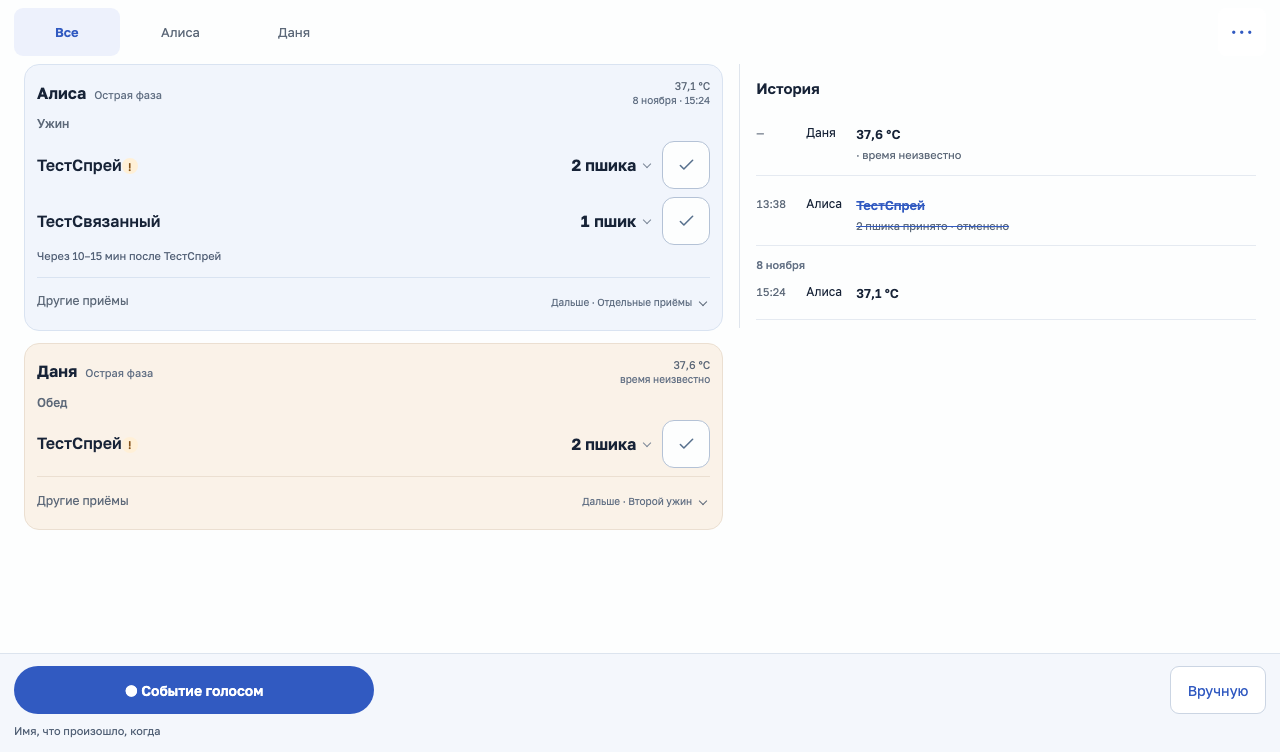
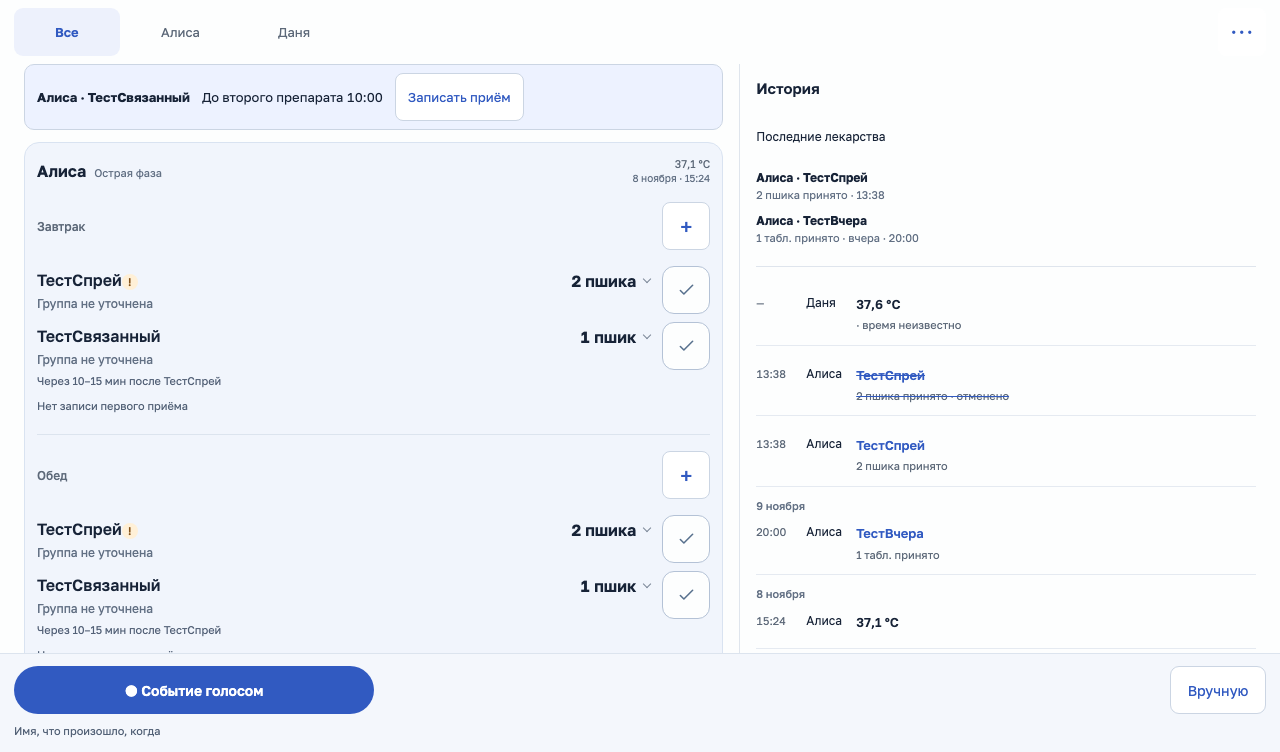
Show every current-day medication slot without automatic focus

diff --git a/site/public/family-workspace.js b/site/public/family-workspace.js
@@ -10,7 +10,7 @@ import {createVoiceQueue,MAX_VOICE_JOBS} from '/voice-queue.js';
 const root=document.querySelector('#family'),dialog=document.querySelector('#family-info'),notice=document.querySelector('#family-status');
 let snapshot,selected=localStorage.getItem('medika-family-person')||'all',actions=[],openKey='',historyDrug=false,saving=false,loading=false,token='',recording=null,voiceAt='',language=['ru','en'].includes(localStorage.getItem('medika-language'))?localStorage.getItem('medika-language'):'ru';
 let voiceQueue=null,voiceJobs=[],queueError='',captureBusy=false,replaceVoiceJob=null,voiceRefreshPending=false;
-const earlierOpen=new Set(),newId=()=> 'family-'+Array.from(crypto.getRandomValues(new Uint32Array(2)),n=>n.toString(16)).join('');
+const outsideOpen=new Set(),newId=()=> 'family-'+Array.from(crypto.getRandomValues(new Uint32Array(2)),n=>n.toString(16)).join('');
 const baseRows=()=>allRows(snapshot),rxFor=id=>snapshot.prescriptions.find(r=>r.id===id)||{},effectiveRow=row=>({...row,warnings:courseWarnings(rxFor(row.prescriptionId),snapshot.model.date)}),phaseOf=p=>p.phaseKey,visibleRow=(r,p)=>{const rx=rxFor(r.prescriptionId);return rx.confirmed&&(!rx.phase||rx.phase===phaseOf(p))&&rx.startDate<=snapshot.model.date&&(!rx.endDate||rx.endDate>=snapshot.model.date);};
 function message(text,undoId=''){notice.innerHTML=`<span>${e(text)}</span>${undoId?`<button type="button" data-undo="${e(undoId)}">Отменить</button>`:''}`;clearTimeout(message.timer);message.timer=setTimeout(()=>notice.textContent='',12000);}
 async function api(path,body=null,method=body?'POST':'GET'){
@@ -51,14 +51,15 @@ function renderRow(source,later=false){const row=effectiveRow(source),event=rowE
   if(row.warnings.length)html=html.replace('</summary>',`</summary><p class="sandbox-warning">${e(row.warnings.join(' · '))}</p>`);
   return `<div class="sandbox-dose${openKey===row.key?' is-selected':''}" data-demo-row="${e(row.key)}">${html}${row.dependency?`<p class="dependency-state" data-dependency-row="${e(row.key)}">${e(dependencyTimer(snapshot,actions,row)?.text||dependency)}</p>`:''}${event&&row.aftercare?`<p class="family-aftercare">После ингаляции: ${e(row.aftercare)}</p>`:''}</div>`;
 }
-function group(g,p,later=true){const rows=g.rows.filter(r=>visibleRow(r,p));if(!rows.length)return '';return `<section class="${later?'care-later':'care-current'}"><div class="family-slot-heading"><h3 class="sandbox-current-label">${e(g.label)}</h3><button type="button" data-add-medicine="${e(p.id)}" data-anchor="${e(rows[0].anchor==='clock'?'':p.daySlots?'slot:'+rows[0].anchor:rows[0].anchor)}"${rows[0].anchor==='clock'?` data-time="${e(g.time||'')}"`:''} aria-label="Добавить лекарство: ${e(p.name)}, ${e(g.label)}">+</button></div>${rows.map(r=>renderRow({...r,personId:p.id},later)).join('')}</section>`;}
+function group(g,p){const rows=g.rows.filter(r=>visibleRow(r,p));if(!rows.length)return '';return `<section class="care-current family-day-slot"><div class="family-slot-heading"><h3 class="sandbox-current-label">${e(g.label)}</h3><button type="button" data-add-medicine="${e(p.id)}" data-anchor="${e(rows[0].anchor==='clock'?'':p.daySlots?'slot:'+rows[0].anchor:rows[0].anchor)}"${rows[0].anchor==='clock'?` data-time="${e(g.time||'')}"`:''} aria-label="Добавить лекарство: ${e(p.name)}, ${e(g.label)}">+</button></div>${rows.map(r=>renderRow({...r,personId:p.id})).join('')}</section>`;}
 function peopleView(){return snapshot.model.cards;}
 function card(p){
   const own=snapshot.prescriptions.filter(r=>r.personId===p.id),phase=phaseOf(p),hasRows=[...(p.current?.rows||[]),...p.later.flatMap(g=>g.rows),...p.earlier.flatMap(g=>g.rows),...p.prn].some(r=>visibleRow(r,p));
   const outside=own.filter(r=>!r.confirmed||r.phase&&r.phase!==phase||r.startDate>snapshot.model.date||r.endDate&&r.endDate<snapshot.model.date);
-  const extra=p.later.map(g=>`<div data-slot-period="later">${group(g,p)}</div>`).join('')+p.earlier.map(g=>`<div data-slot-period="earlier">${group(g,p)}</div>`).join('');
-  const extraContent=extra+(outside.length?`<section class="family-outside"><h3>Другие назначения</h3>${outside.map(r=>`<button class="sandbox-outside" type="button" data-edit="${e(r.id)}">${e(r.name)}<small>${e(!r.confirmed?'Не подтверждено':r.phase&&r.phase!==phase?(r.phase==='acute'?'Для острой фазы':'Для поддерживающей фазы'):courseWarnings(r,snapshot.model.date).join(' · ')||'Курс завершён')}</small></button>`).join('')}</section>`:'');
-  const plan=(p.current?group(p.current,p,false):hasRows?'':`<p class="family-empty">${own.length&&phase==='prevention'?'Поддерживающая схема ещё не добавлена':'Нет действующих плановых назначений'}</p>`)+(extraContent?`<details class="care-earlier family-other-slots" data-earlier="${e(p.id)}"${earlierOpen.has(p.id)?' open':''}><summary><span>Другие приёмы</span>${p.later[0]?`<small>Дальше · ${e(p.later[0].label)}</small>`:''}</summary>${extraContent}</details>`:'');
+  const slotOrder=p.daySlots?profileSlots(p).map(s=>s.id):Object.keys(anchors),rank=g=>{const anchor=g.rows[0]?.anchor,index=slotOrder.indexOf(anchor);return index>=0?index:slotOrder.length+(anchor==='clock'?1:2);};
+  // Meals keep their daily order even when their clock times are unknown. Exact times remain explicit.
+  const groups=[...p.earlier,...(p.current?[p.current]:[]),...p.later].sort((a,b)=>rank(a)-rank(b)||(a.time||'').localeCompare(b.time||''));
+  const plan=groups.map(g=>group(g,p)).join('')+(groups.length||hasRows?'':`<p class="family-empty">${own.length&&phase==='prevention'?'Поддерживающая схема ещё не добавлена':'Нет действующих плановых назначений'}</p>`)+(outside.length?`<details class="care-earlier family-outside-plans" data-outside-plans="${e(p.id)}"${outsideOpen.has(p.id)?' open':''}><summary>Другие назначения</summary><section class="family-outside">${outside.map(r=>`<button class="sandbox-outside" type="button" data-edit="${e(r.id)}">${e(r.name)}<small>${e(!r.confirmed?'Не подтверждено':r.phase&&r.phase!==phase?(r.phase==='acute'?'Для острой фазы':'Для поддерживающей фазы'):courseWarnings(r,snapshot.model.date).join(' · ')||'Курс завершён')}</small></button>`).join('')}</section></details>`:'');
   const temperature=activeEvents(snapshot,actions).filter(r=>r.personId===p.id&&r.kind==='temperature').sort((a,b)=>(b.date||'').localeCompare(a.date||'')||Date.parse(b.occurredAt||b.input?.createdAt||0)-Date.parse(a.occurredAt||a.input?.createdAt||0))[0];
   return `<section class="care-person color-${p.color}" data-person="${e(p.id)}"><header class="care-person-head"><div class="family-person-identity"><h2>${e(p.name)}</h2>${phase||own.length?`<span class="family-phase-status" data-phase-status="${e(phase)}">${e(phase==='acute'?'Острая фаза':phase==='prevention'?'Поддерживающая':'Фаза не задана')}</span>`:''}</div>${temperature?`<span class="care-phase">${e(temperature.name)}<small>${e(measurementStamp(temperature,snapshot.model.date,snapshot.timeZone))}</small></span>`:''}</header>${plan}${p.prn.filter(r=>visibleRow(r,p)).length?`<section class="care-later"><h3>По необходимости</h3>${p.prn.filter(r=>visibleRow(r,p)).map(r=>renderRow({...r,personId:p.id},true)).join('')}</section>`:''}${!p.current&&!p.later.length&&!p.earlier.length?`<button type="button" class="family-add-medicine" data-add-medicine="${e(p.id)}">Добавить лекарство</button>`:''}${!hasRows?`<button type="button" class="sandbox-empty-event" data-add-event="${e(p.id)}">Записать событие</button>`:''}</section>`;
 }
@@ -157,7 +158,7 @@ async function saveSlotMedicine(form){
 }
 
 function showPrescription(id,personId,slotIndex=null){
-  if(!snapshot)return;if(selected!=='all'){selected=personId;localStorage.setItem('medika-family-person',selected);}earlierOpen.add(personId);render();const row=baseRows().find(r=>r.prescriptionId===id&&(slotIndex===null||r.slotIndex===slotIndex)),node=[...root.querySelectorAll('[data-demo-row]')].find(n=>n.dataset.demoRow===row?.key)||[...root.querySelectorAll('[data-edit]')].find(n=>n.dataset.edit===id);node?.scrollIntoView({block:'nearest'});
+  if(!snapshot)return;if(selected!=='all'){selected=personId;localStorage.setItem('medika-family-person',selected);}outsideOpen.add(personId);render();const row=baseRows().find(r=>r.prescriptionId===id&&(slotIndex===null||r.slotIndex===slotIndex)),node=[...root.querySelectorAll('[data-demo-row]')].find(n=>n.dataset.demoRow===row?.key)||[...root.querySelectorAll('[data-edit]')].find(n=>n.dataset.edit===id);node?.scrollIntoView({block:'nearest'});
 }
 
 let timerAudio;
@@ -204,7 +205,7 @@ async function voice(){if(saving||captureBusy)return;if(recording){const current
   captureBusy=true;updateVoiceStatus();try{recording=await captureVoice(()=>voice());voiceAt=new Date().toISOString();recording.replaceSequence=replacement;}catch(error){message(error.name==='NotAllowedError'?'Разрешите доступ к микрофону в браузере':'Не удалось включить микрофон');}finally{captureBusy=false;render();}}
 async function initVoiceQueue(){try{voiceQueue=await createVoiceQueue({api,onChange(jobs,error){if(error){queueError=error.message;message('Очередь остановлена. '+error.message);}else{const changed=JSON.stringify(voiceJobs.map(j=>[j.sequence,j.state,j.error]))!==JSON.stringify(jobs.map(j=>[j.sequence,j.state,j.error]));voiceJobs=jobs;queueError='';if(changed&&dialog.open&&dialog.querySelector('.family-voice-jobs'))voiceQueueDialog();}updateVoiceStatus();},async onSaved(){voiceRefreshPending=true;await load();}});await voiceQueue.sync();}catch(error){queueError='Не удалось открыть локальную очередь. '+error.message;updateVoiceStatus();}}
 root.addEventListener('change',event=>{if(saving||loading||recording)return;if(event.target.name==='care-person'){selected=event.target.value;root.querySelector('main').scrollTop=0;localStorage.setItem('medika-family-person',selected);openKey='';historyDrug=false;render(true);}else if(event.target.matches('[data-take]')){const row=baseRows().find(r=>r.key===event.target.dataset.take);if(!row)return;const old=rowEvent(snapshot,actions,row);if(event.target.checked)record(row);else if(old)cancel(old.id);}});
-root.addEventListener('toggle',event=>{if(event.target.hasAttribute('data-earlier')){if(event.target.open)earlierOpen.add(event.target.dataset.earlier);else earlierOpen.delete(event.target.dataset.earlier);return;}if(!event.target.parentElement?.classList.contains('care-med'))return;const key=event.target.closest('[data-demo-row]')?.dataset.demoRow;if(event.target.open){openKey=key;root.querySelectorAll('.care-med>details[open]').forEach(n=>{if(n!==event.target)n.open=false;});}else if(openKey===key){openKey='';historyDrug=false;}else return;root.querySelectorAll('[data-demo-row]').forEach(n=>n.classList.toggle('is-selected',n.dataset.demoRow===openKey));root.querySelector('.sandbox-history').innerHTML=historyHTML();},true);
+root.addEventListener('toggle',event=>{if(event.target.hasAttribute('data-outside-plans')){if(event.target.open)outsideOpen.add(event.target.dataset.outsidePlans);else outsideOpen.delete(event.target.dataset.outsidePlans);return;}if(!event.target.parentElement?.classList.contains('care-med'))return;const key=event.target.closest('[data-demo-row]')?.dataset.demoRow;if(event.target.open){openKey=key;root.querySelectorAll('.care-med>details[open]').forEach(n=>{if(n!==event.target)n.open=false;});}else if(openKey===key){openKey='';historyDrug=false;}else return;root.querySelectorAll('[data-demo-row]').forEach(n=>n.classList.toggle('is-selected',n.dataset.demoRow===openKey));root.querySelector('.sandbox-history').innerHTML=historyHTML();},true);
 root.addEventListener('click',event=>{const target=event.target.closest('button');if(!target||saving)return;if(target.hasAttribute('data-voice')){voice();return;}if(recording)return;
   if(target.hasAttribute('data-voice-queue'))voiceQueueDialog();if(target.hasAttribute('data-tools'))tools();if(target.hasAttribute('data-retry'))load();if(target.hasAttribute('data-medicine-info'))medicineInfo(target.dataset.medicineInfo);
   if(target.hasAttribute('data-record')){const row=baseRows().find(r=>r.key===target.dataset.record),old=rowEvent(snapshot,actions,row);if(old||row.eventId)eventEdit(old?.id||row.eventId);else if(row.anchor==='unassigned')slotsForm();else eventForm('',row);}

diff --git a/site/public/family-workspace.css b/site/public/family-workspace.css
@@ -30,7 +30,7 @@
 .family-thumb img,.family-thumb svg{width:100%;height:100%;object-fit:contain}
 .family-drug-label{min-width:0;overflow-wrap:anywhere}
 .family-photos a{display:flex;align-items:center;min-height:48px;margin-top:8px;font-size:12px;color:#315ac1}
-/* The overview starts closed; details must not push the next person off screen. */
+/* Medication details start closed; all planned slots remain visible. */
 .family-app .family-toolbar .care-family{padding:8px 14px}
 .family-app .sandbox-jump{padding:0 14px 8px}
 .family-app .sandbox-plan .care-people{margin-top:0;gap:12px}
@@ -40,11 +40,6 @@
 .family-app .care-person-head .care-phase{text-align:right;line-height:1.4}
 .family-app .care-person-head .care-phase small{display:block;font-size:10px;color:#627084}
 .family-app .care-current{padding-bottom:4px}
-.family-app .family-other-slots{margin-top:4px}
-.family-app .family-other-slots>summary{gap:8px;justify-content:space-between}
-.family-app .family-other-slots>summary small{font-size:10px;color:#627084;margin-left:auto;text-align:right}
-.family-app .family-other-slots [data-slot-period]+[data-slot-period]{margin-top:8px}
-.family-app .family-other-slots .care-later{margin:0;padding:8px 0}
 .family-app .family-outside h3{font-size:12px;margin:8px 0}
 .family-review-marker{display:inline-flex;align-items:center;justify-content:center;width:16px;height:16px;flex-shrink:0;border-radius:50%;background:#fff0d7;color:#86541b;font:600 11px/1 Golos,system-ui,sans-serif}
 .family-app .family-history-day>h3{font-size:11px;font-weight:500;color:#627084;margin:12px 0 0}
@@ -100,3 +95,5 @@
 .family-timers[hidden]{display:none}
 
 .family-app [hidden]{display:none!important}[data-rx-occurrences]{display:grid;gap:0}
+
+.family-app .family-day-slot+.family-day-slot{border-top:1px solid #dce4ee;margin-top:8px;padding-top:8px}

diff --git a/PROJECT.md b/PROJECT.md
@@ -22,11 +22,11 @@ OCR каждого снимка и конечный AI-результат сох
 
 Связанные препараты настраиваются в карточке лекарства → «Изменить → После применения и последовательность»: предыдущий препарат, от/до минут, отдельное напоминание после процедуры. Это пользовательская последовательность, а не дополнение к тексту врача. Для каждого человека и соответствующего слота используется его фактическая отметка первого приёма, включая раздельные утреннее и вечернее назначения. Отсчёт начинается от отметки о завершении первой ингаляции: сначала оставшееся время до начала окна, затем до его конца; истечение окна не считается пропуском или фактом приёма. Нет точного времени или первая отметка отменена — нет отсчёта. Вторая отметка убирает таймер и показывает напоминание после применения.
 
-Таймеры видны без всплывающего окна и восстанавливаются по журналу после перезагрузки. На плашке есть «Записать приём», включая истёкший интервал: форма позволяет указать фактическое время, её открытие ничего не записывает. Галочка доступна у всех плановых приёмов текущего дня, включая «Другие приёмы» после смены отображаемого слота. Истечение интервала не блокирует журнал и не является рекомендацией принять препарат. Короткий звук при начале окна возможен после взаимодействия со страницей, пока браузер её выполняет; во время записи голоса звук откладывается. Системный будильник и гарантированные уведомления при закрытом/приостановленном Safari не реализованы.
+Таймеры видны без всплывающего окна и восстанавливаются по журналу после перезагрузки. На плашке есть «Записать приём», включая истёкший интервал: форма позволяет указать фактическое время, её открытие ничего не записывает. Галочка доступна у всех плановых приёмов текущего дня, без скрытого списка остальных слотов. Истечение интервала не блокирует журнал и не является рекомендацией принять препарат. Короткий звук при начале окна возможен после взаимодействия со страницей, пока браузер её выполняет; во время записи голоса звук откладывается. Системный будильник и гарантированные уведомления при закрытом/приостановленном Safari не реализованы.
 
 Лаборатории вынесены под «Тестовые инструменты». Отдельные стенды: OCR и шесть вариантов интерфейса — `/playground` (также `/ocr-lab`), голос — `/voice-lab`. Тестовый журнал отделён от клинической базы.
 
-Рабочее приложение — **http://192.168.0.38/** (также `/family`, на Mac — http://medika.localhost). На планшете слева лекарства и раскрытое назначение, справа история; на телефоне есть короткий переход к истории. Выбор человека ограничивает обе панели. Обзор изначально свёрнут: автоматического раскрытия первого лекарства нет. Дополнительные слоты и назначения собраны в одном «Другие приёмы», дублирующая верхняя кнопка записи убрана. Основной слот выбирается по ближайшему из настроенных часов, а явная незавершённая цепочка удерживается до истечения её заданного интервала от факта; назначения и факты этим выбором не меняются. Старое измерение в шапке содержит дату, неизвестное время не подменяется часами. История разделена по фактическим дням без повторения даты в каждой строке. Нажатие строки открывает сведения о факте; форма исправления появляется только по «Исправить». Приём сейчас отмечается отдельной галочкой; из раскрытия можно записать другой фактический момент или неизвестное время с известной датой. Прошедшие и последующие слоты доступны для записи факта, без изменения плана.
+Рабочее приложение — **http://192.168.0.38/** (также `/family`, на Mac — http://medika.localhost). На планшете слева лекарства и раскрытое назначение, справа история; на телефоне есть короткий переход к истории. Выбор человека ограничивает обе панели. Обзор изначально свёрнут: автоматического раскрытия первого лекарства нет. Все плановые слоты текущего дня открыты: еда в порядке дня (личные слоты — по профилю), конкретные часы отдельными группами после еды. Единственный основной слот по часам или выполненности не выбирается; завтрак и обед не скрываются за «Другими приёмами». В «Других назначениях» остаются только будущие/завершённые курсы, неподтверждённые и другая фаза; вчерашние факты — в истории. При длинной схеме используется прокрутка. Старое измерение в шапке содержит дату, неизвестное время не подменяется часами. История разделена по фактическим дням без повторения даты в каждой строке. Нажатие строки открывает сведения о факте; форма исправления появляется только по «Исправить». Приём сейчас отмечается отдельной галочкой; из раскрытия можно записать другой фактический момент или неизвестное время с известной датой. Прошедшие и последующие слоты доступны для записи факта, без изменения плана.
 
 Факты сохраняются в общем журнале, переживают перезагрузку и перезапуск. Отмена сохраняет аудит; исправление фактической дозы/времени проверяет версию записи и не меняет Rx. Правка назначения не переписывает прошлые факты. Версия Rx проверяется при отметке, повторный тап блокируется, потерянный ответ приводит к чтению журнала без автоматического повторного POST. Общие события — температура, лекарство, симптомы, ингаляция и произвольная запись — доступны и у человека без курса. Последние лекарства включают предыдущие дни. Неизвестное время хранится как `occurredAt:null`, `timeUnknown:true`, `knownDate`; часы не выдумываются, связанный интервал и проверки ограничений не объявляются полными.
 
@@ -118,7 +118,7 @@ Playwright на этом Mac переиспользуется через `PLAYWR
 
 Перенос A1 в приложение: `site/scripts/family-workspace-canary.mjs`, отчёт `reports/family-workspace-canary.json`, синтетические снимки `reports/family-workspace-synthetic-*.png`. Проверяются рабочая запись/reload, правка Rx без изменения старой дозы, исправление/отмена факта, неизвестное время, другой человек в голосовой фразе, фазы, слоты, перезапуск, телефон/планшет и границы касаний. В этом UI-canary ASR подменён, фактический parse/record API работает на синтетической базе; качество реального голоса им не подтверждается. Общий canary проверяет сохранённые прежние инструменты по `/manage`, включая локальную ASR/OCR и восстановление. Перед переключением сохранена приватная копия `site/data/before-live-family-transfer.json`. Проверка реального главного адреса выполняется только чтением и раскрытием, без медицинских записей и скриншотов; приватный результат — `site/data/family-live-transfer-check.json`. Физический iPad не проверен.
 
-Проверка компактного обзора: `site/scripts/family-overview-canary.mjs`, отчёт `reports/family-overview-canary.json`, синтетические кадры `reports/family-overview-synthetic-*.png`. Часы теста зафиксированы на 13:38: у одного ребёнка ближайший ужин, у другого обед; старое измерение и неизвестное время подписаны явно. На 320/390/768/1024/1280px обе карточки и основные дозы помещаются в видимую область. Сохранение/reload/отмена, доступность остальных слотов и неизменность курса проверены отдельно. Проверка живого экрана без скриншотов и записей — приватный `site/data/family-overview-live-check.json`.
+Проверка расписания дня: `site/scripts/family-overview-canary.mjs`, отчёт `reports/family-overview-canary.json`, только синтетические кадры `reports/family-overview-synthetic-*.png`. В середине дня все приёмы еды и конкретные часы открыты, даже без часов еды и после отметки вечернего препарата. Прошлые факты остаются в истории, будущий курс — отдельно. Проверяются сохранение/reload/отмена, неизменность назначения, 320/390/844/768/1024/1280px, телефон/планшет в обеих ориентациях, размеры и промежутки зон, центры и края касаний; прокрутка длинного расписания допустима. Физический iPad не проверен.
 
 Прямое добавление в слоты: `site/scripts/slot-assignment-canary.mjs`, отчёт `reports/slot-assignment-canary.json`. Синтетическая временная база: пустой профиль, выбранный слот, каталог → семейный экран, несколько слотов, единый распорядок на будни и выходные, потерянный ответ, отметка приёма, неизменность прошлых фактов, restart/backup и touch-геометрия телефона/планшета.
 

diff --git a/design-study/DESIGN-RULES.md b/design-study/DESIGN-RULES.md
@@ -17,6 +17,10 @@
 - Перемещение редкой операции не удаляет её, не меняет назначение и не превращает простой просмотр в запись.
 - Статус не оформлять как управляющую кнопку: без сегментированного выбора, наведения, фокуса и обработчика изменения. Доступный способ изменения описать отдельно.
 
+## Расписание дня
+
+Не выбирать за пользователя единственный «ближайший» слот и не скрывать остальные за «Другими приёмами». Еда видна в обычном порядке (личные слоты — в порядке профиля), точные часы — отдельными группами после еды. Завтрак может фактически продолжаться до обеда: часы и выполненное вечернее назначение не вытесняют его. План дня отделён от вчерашней истории и неактивных назначений. Подробности лекарств остаются свёрнутыми. При длинной схеме допустима прокрутка; не пытаться уместить весь курс в первый экран уменьшением зон нажатия или сокрытием слотов.
+
 ## Где показываются данные и действия
 
 | Поверхность | Видимые данные | Доступные действия |
@@ -42,7 +46,7 @@
 | 4 | Связанные приёмы; при каждой цепочке | Порядок, отсчёт от факта, человек и слот | Настройка в препарате; запуск от завершённого первого приёма; запись второго с плашки |
 | 5 | Дал сейчас; часто | Лекарство, доза и отдельная галочка | Один тап; затем короткое подтверждение и отмена |
 | 6 | Внести прошлый приём; по ситуации | Доступ к другим слотам и галочкам | Для другого момента — раскрытие лекарства или плашка таймера → запись фактического времени |
-| 7 | Зафиксировать раньше плана; по ситуации | Следующий слот свёрнут | Запись факта из нужного слота, отдельно от правки плана |
+| 7 | Зафиксировать раньше плана; по ситуации | Все слоты текущего дня открыты | Запись факта из нужного слота, отдельно от правки плана |
 | 8 | Исправить ошибку; по ситуации | Недавний факт и краткая отмена после действия | Карточка события → исправление/отмена |
 | 9 | Назначение и история на планшете; каждый заход | Две связанные панели, общий фильтр человека | Раскрытие и фильтр истории без ухода на новую страницу |
 | 10 | Событие без курса; во время ухода | Человек и история, понятное пустое состояние | Общий ввод, назначение не обязательно |
@@ -90,7 +94,7 @@
 
 ## Прямое добавление в расписание (12 ноября 2026)
 
-Основной сценарий проверяется из семейного экрана, а не только через API или тестовый стенд: человек → «+» у слота (или «Добавить лекарство» в пустой карточке) → препарат → отдельная разовая доза → слот/слоты или точное время → явное сохранение. Человек и выбранный слот уже заполнены; концентрация не заполняет дозу. Добавленная строка сразу видна, даже если слот был скрыт в «Другие приёмы». В каталоге основной переход — «В расписание» с уже выбранным препаратом. Точное время выбирается в этой же форме, часы обязательны только в этом режиме. Интервалы и приём по необходимости остаются отдельными вариантами расписания.
+Основной сценарий проверяется из семейного экрана, а не только через API или тестовый стенд: человек → «+» у слота (или «Добавить лекарство» в пустой карточке) → препарат → отдельная разовая доза → слот/слоты или точное время → явное сохранение. Человек и выбранный слот уже заполнены; концентрация не заполняет дозу. Добавленная строка сразу видна в открытом слоте. В каталоге основной переход — «В расписание» с уже выбранным препаратом. Точное время выбирается в этой же форме, часы обязательны только в этом режиме. Интервалы и приём по необходимости остаются отдельными вариантами расписания.
 
 Наличие действия в скрытом универсальном редакторе не означает, что пользовательский сценарий реализован. Перед сдачей пройти его обычными кликами, включая пустого человека, несколько препаратов и несколько слотов. Рабочее действие не ведёт в playground; входы в лаборатории находятся под «Тестовые инструменты». Импорт выписки — рабочий `/prescriptions/import`, без тестовых вариантов и синтетических примеров; прежний `?mode=import` совместим.
 
@@ -102,4 +106,4 @@
 
 В свёрнутой строке лекарства под названием видна группа из проверенной справки. Это пассивная подпись без отдельной зоны действия; полная справка открывается прежней кнопкой. Для комбинации антибиотика и кортикостероида видны обе группы. Не обрезать критичные оговорки и неизвестность, не обозначать группу цветом «безопасно/опасно».
 
-Истечение интервала не убирает действия регистрации факта. «Записать приём» доступно прямо с плашки таймера; фактическое время уточняется до сохранения. Смена фокуса на другой слот не скрывает галочки у остальных плановых приёмов в «Других приёмах». Визуальное сокращение строки не должно отменять действие.
+Истечение интервала не убирает действия регистрации факта. «Записать приём» доступно прямо с плашки таймера; фактическое время уточняется до сохранения. Все плановые слоты текущего дня открыты и сохраняют галочки независимо от часов и отметок. Визуальное сокращение строки не должно отменять действие.

diff --git a/USER-FLOWS.md b/USER-FLOWS.md
@@ -43,8 +43,8 @@
 
 - **Вход:** главный экран. Фильтры «Все / Алиса / Даня / Мама / Папа».
 - **Путь:** просмотреть общий набор или выбрать человека. На планшете назначения слева, история справа; на телефоне — в одной области прокрутки с переходом к истории.
-- **Результат:** видны имя, пассивный статус фазы, слот, лекарства и дозы, отметки и последние события. Цвет помогает различать людей. Лишние заголовки «Сегодня» и дата планового дня не занимают обзор. Для еды показывается название слота, для назначения на часы — сами часы. Старое измерение подписано датой.
-- **Граница:** выбор фильтра или отображаемого слота не меняет лечение и не записывает факт. Смена фокуса не делает остальные приёмы недоступными.
+- **Результат:** видны имя, пассивный статус фазы, слот, лекарства и дозы, отметки и последние события. Цвет помогает различать людей. Завтрак и обед не скрываются из-за вечернего назначения или растянувшегося приёма. Завершённые курсы, будущие и назначения другой фазы находятся отдельно в «Других назначениях»; вчерашние факты — в истории, а не среди плановых строк дня. Лишние заголовки «Сегодня» и дата планового дня не занимают обзор. Для еды показывается название слота, для назначения на часы — сами часы. Старое измерение подписано датой.
+- **Граница:** выбор фильтра или отображаемого слота не меняет лечение и не записывает факт. Обзор не выбирает единственный слот по часам: все плановые слоты текущего дня открыты. Еда идёт в порядке завтрака, обеда, ужина, второго ужина и сна (для личных слотов — порядок профиля); точные часы показаны отдельными группами после еды. Отметки не меняют порядок. Просмотр требует только прокрутки, без раскрытия «Других приёмов».
 
 ### UF02. Назначение, группа и сведения о препарате
 
@@ -55,7 +55,7 @@
 
 ### UF03. Принято сейчас в любом плановом слоте
 
-- **Вход:** галочка у лекарства текущего дня; у другого слота сначала раскрыть «Другие приёмы».
+- **Вход:** галочка у лекарства в любом открытом слоте текущего дня.
 - **Путь:** отметить именно нужную строку.
 - **Результат:** сохраняется факт с фактическим временем; отметка переживает перезагрузку. Раскрытие инструкции и галочка — независимые действия.
 - **Граница:** галочка сохраняется у прошлых и последующих плановых слотов текущего дня. Истечение связанного интервала её не убирает. Повторное нажатие отменяет существующую отметку с сохранением истории, а не создаёт ещё одну дозу. Непривязанный приём сначала требует исправления назначения.
@@ -143,7 +143,7 @@
 
 ### UF15. Интервал истёк или фокус ушёл на другой слот
 
-- **Вход:** плашка таймера → «Записать приём»; либо галочка лекарства в «Других приёмах».
+- **Вход:** плашка таймера → «Записать приём»; либо галочка лекарства в открытом слоте текущего дня.
 - **Путь:** открыть форму нужного второго препарата, указать фактическое время, сохранить.
 - **Результат:** запись доступна и после истечения окна, и когда основным показан другой слот. После записи второй дозы таймер убирается.
 - **Граница:** истечение окна — информация, а не блокировка журнала. Открытие/отмена формы ничего не отмечает. Возможность записать факт не означает рекомендацию принять лекарство позже.

diff --git a/AGENTS.md b/AGENTS.md
@@ -8,7 +8,7 @@
 
 - Перед новой компоновкой сверяться с матрицей в `design-study/DESIGN-RULES.md`: для каждого сценария указаны частота, видимые данные и место действия. Статус фазы в обзоре — пассивный текст; смена фазы и распорядок — в лечении человека. История сначала открывает сведения о факте, затем явное исправление. Язык ввода — настройка, а не постоянный сосед голосовой кнопки. Не выводить редкое действие на главный экран только потому, что для него есть API.
 
-- Семейный обзор изначально свёрнут. Не раскрывать первое лекарство автоматически на планшете; основные дозы обоих детей должны быть видны до раскрытия. Дата старого измерения обязательна, часы без даты не должны создавать впечатление свежего факта. Выбор отображаемого слота не меняет назначение и не означает рекомендацию догнать старый приём.
+- Семейный обзор изначально свёрнут. Не раскрывать первое лекарство автоматически на планшете; основные дозы обоих детей должны быть видны до раскрытия. Дата старого измерения обязательна, часы без даты не должны создавать впечатление свежего факта. Все плановые слоты текущего дня видны без «Других приёмов»: еда в порядке дня/личного профиля, конкретные часы отдельными группами. Не выбирать единственный слот по часам или выполненности и не пытаться уместить все лекарства в первый экран сокрытием остальных слотов. Вчерашние факты — в истории, будущие/завершённые/другой фазы назначения — отдельно. Отображение не меняет назначение и не означает рекомендацию догнать старый приём.
 
 - Мобильный дизайн: фактические зоны действий не меньше 48 × 48 CSS px, свободный промежуток между ними не меньше 8px. Раскрытие лекарства и отметка приёма — раздельные действия с промежутком 12px. Обязательны геометрическая проверка и touch-нажатия на центре/краях зон; скриншот не заменяет их. Полные правила и разобранная ошибка A1 v2: `design-study/DESIGN-RULES.md`.
 

diff --git a/STATUS.md b/STATUS.md
@@ -7,7 +7,7 @@
 - Семейный обзор и фильтр человека; на планшете назначения и история в двух панелях. Фаза — пассивный статус, смена — в лечении человека.
 - Один распорядок на все дни. Прямое добавление из слота, пустого профиля и каталога: препарат, отдельная разовая доза, слоты или обязательное точное время.
 - Один редактор для одного и нескольких приёмов: перенос между слотами/часами и явное «Добавить приём». Назначение сохраняет ID и старые факты; новый приём остаётся неотмеченным. Для еды поле часов скрыто.
-- Галочки у всех плановых приёмов текущего дня, включая «Другие приёмы». Запись фактического времени, неизвестные часы, исправление и отмена с аудитом.
+- Все слоты текущего дня открыты в порядке еды/профиля; конкретные часы отдельными группами. Выбора одного ближайшего слота и «Других приёмов» нет. Галочки у всех плановых приёмов. Запись фактического времени, неизвестные часы, исправление и отмена с аудитом.
 - Группа под названием препарата, комбинации и неизвестность; отдельные справка, источники и фото.
 - Пользовательская последовательность препаратов, отдельные таймеры людей/слотов, запись со плашки после истечения окна и напоминание после применения.
 - AI-добавление карточки по фото: локальный OCR, структурирование текста и явная сверка. Форма и концентрация отделены от личной дозы.
